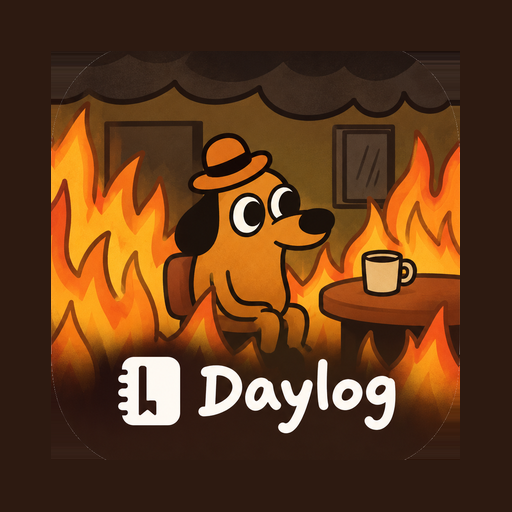
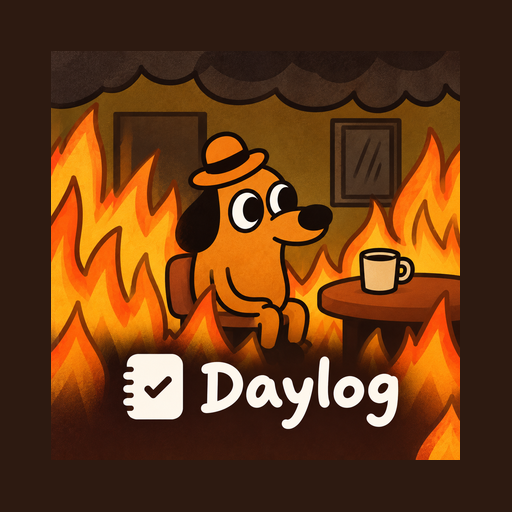
Publish DayLog web build (aeafadf)
Claude-Session: https://claude.ai/code/session_016Szbjkf5guEcicP71kmRub

Changed region(s): [[0.0938, 0.0938, 0.9062, 0.9062], [0.7188, 0.125, 0.75, 0.1562], [0.0938, 0.0938, 0.125, 0.125]]

diff --git a/404.html b/404.html
@@ -13,8 +13,8 @@
     <meta name="apple-mobile-web-app-capable" content="yes" />
     <meta name="apple-mobile-web-app-title" content="DayLog" />
     <meta name="apple-mobile-web-app-status-bar-style" content="default" />
-    <link rel="apple-touch-icon" href="/Notes/apple-touch-icon.png?v=4" />
-    <link rel="icon" type="image/png" href="/Notes/favicon.png?v=4" />
+    <link rel="apple-touch-icon" href="/Notes/apple-touch-icon.png?v=5" />
+    <link rel="icon" type="image/png" href="/Notes/favicon.png?v=5" />
     <meta name="theme-color" content="#F7F7F5" media="(prefers-color-scheme: light)" />
     <meta name="theme-color" content="#111114" media="(prefers-color-scheme: dark)" />
 

diff --git a/index.html b/index.html
@@ -13,8 +13,8 @@
     <meta name="apple-mobile-web-app-capable" content="yes" />
     <meta name="apple-mobile-web-app-title" content="DayLog" />
     <meta name="apple-mobile-web-app-status-bar-style" content="default" />
-    <link rel="apple-touch-icon" href="/Notes/apple-touch-icon.png?v=4" />
-    <link rel="icon" type="image/png" href="/Notes/favicon.png?v=4" />
+    <link rel="apple-touch-icon" href="/Notes/apple-touch-icon.png?v=5" />
+    <link rel="icon" type="image/png" href="/Notes/favicon.png?v=5" />
     <meta name="theme-color" content="#F7F7F5" media="(prefers-color-scheme: light)" />
     <meta name="theme-color" content="#111114" media="(prefers-color-scheme: dark)" />
 
